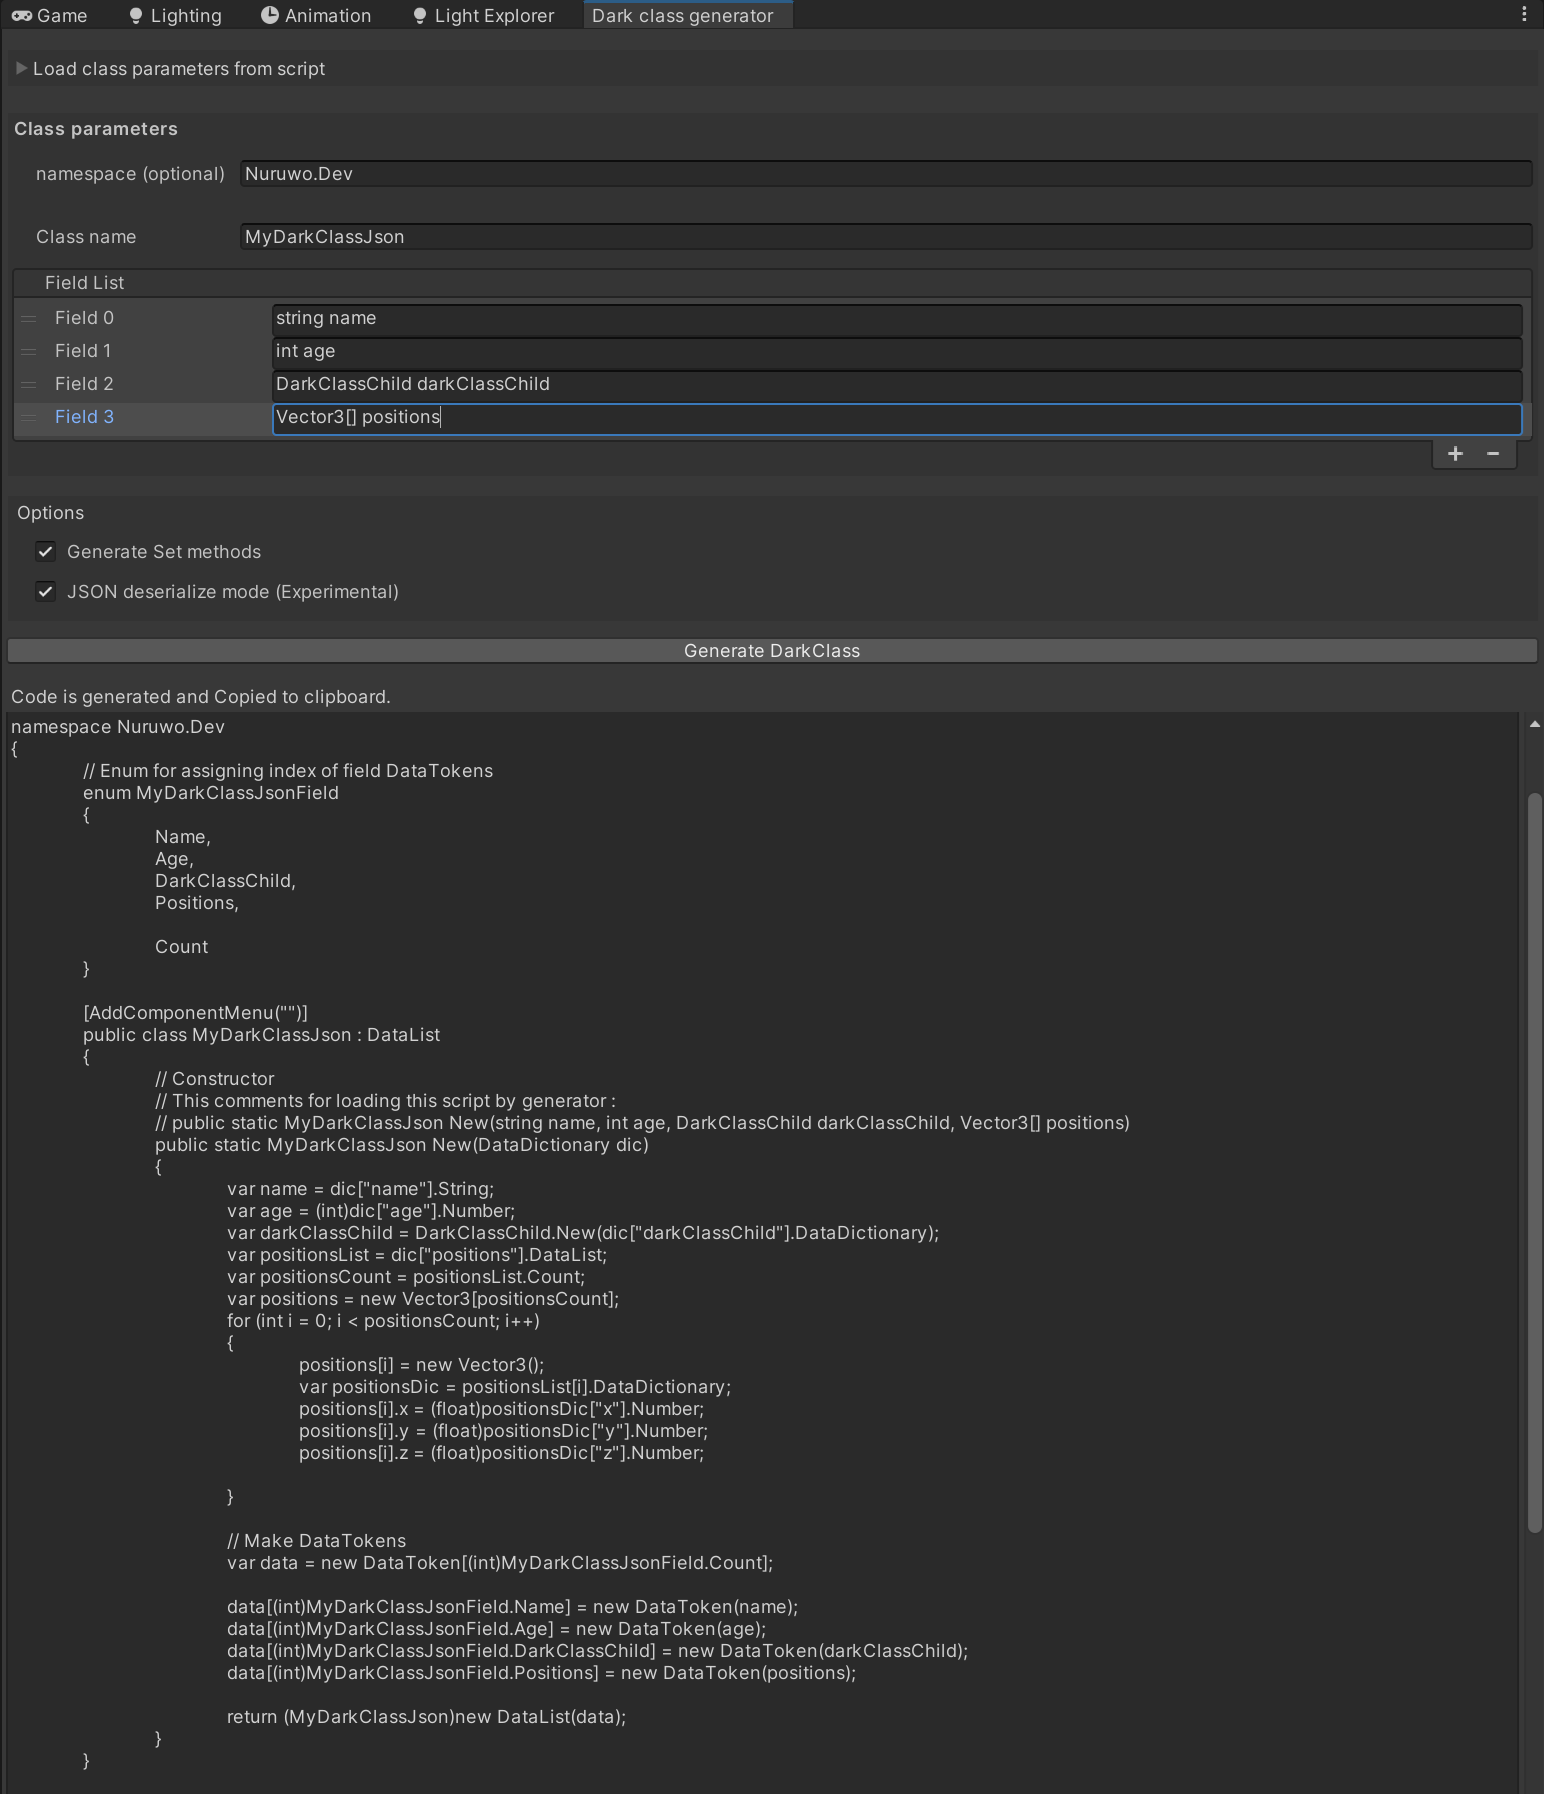
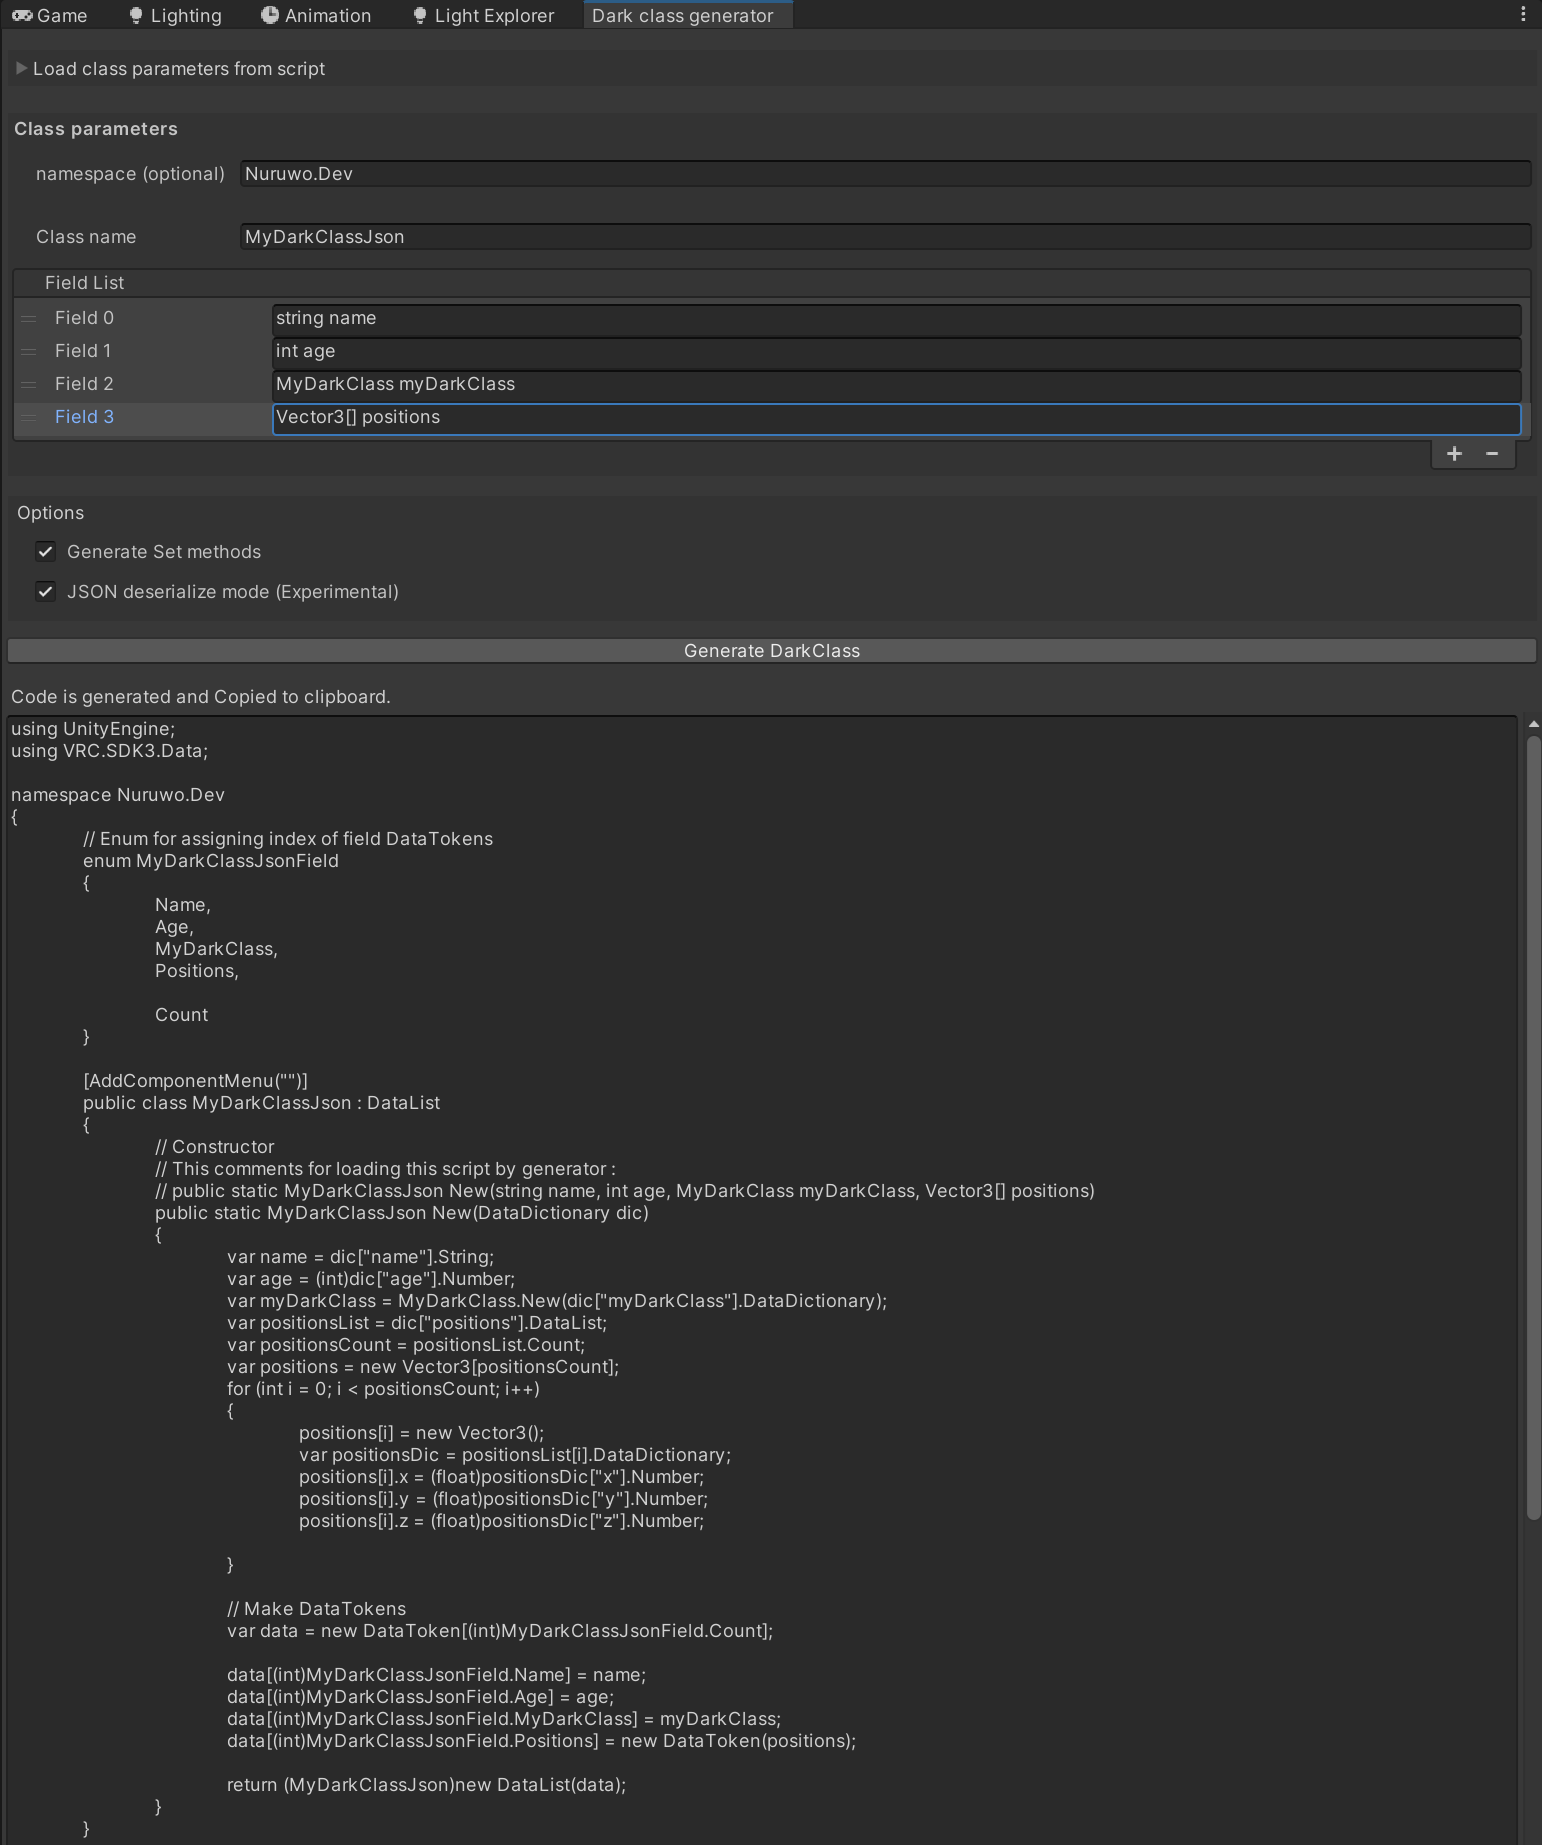
Use implicit casts

diff --git a/Editor/DarkClassGeneratorEditorWindow.cs b/Editor/DarkClassGeneratorEditorWindow.cs
@@ -220,7 +220,7 @@ namespace Nuruwo.Tool
             sb.Append($"// public static {pClassName} New(");
             foreach (var field in fieldList)
             {
-                var (argumentType, argumentName, _) = getTypeAndNamesFromField(field);
+                var (argumentType, argumentName, _) = GetTypeAndNamesFromField(field);
                 if (string.IsNullOrEmpty(argumentType)) { continue; }
                 sb.Append($"{argumentType} {argumentName}, ");
             }
@@ -254,7 +254,6 @@ namespace Nuruwo.Tool
         private string GenerateHeaderWithNameSpace(string nameSpace)
         {
             var sb = new StringBuilder();
-            sb.AppendLine($"using UdonSharp;");
             sb.AppendLine($"using UnityEngine;");
             sb.AppendLine($"using VRC.SDK3.Data;");
             sb.AppendLine("");
@@ -273,7 +272,7 @@ namespace Nuruwo.Tool
             sb.AppendLine($"{{");
             foreach (var field in _fieldList)
             {
-                var (argumentType, _, pArgumentName) = getTypeAndNamesFromField(field);
+                var (argumentType, _, pArgumentName) = GetTypeAndNamesFromField(field);
                 if (string.IsNullOrEmpty(argumentType)) { continue; }
                 sb.AppendLine($"\t{pArgumentName},");
             }
@@ -299,7 +298,7 @@ namespace Nuruwo.Tool
             sb.Append($"public static {pClassName} New(");
             foreach (var field in fieldList)
             {
-                var (argumentType, argumentName, _) = getTypeAndNamesFromField(field);
+                var (argumentType, argumentName, _) = GetTypeAndNamesFromField(field);
                 if (string.IsNullOrEmpty(argumentType)) { continue; }
                 sb.Append($"{argumentType} {argumentName}, ");
             }
@@ -325,74 +324,16 @@ namespace Nuruwo.Tool
             var sb = new StringBuilder();
             foreach (var field in fieldList)
             {
-                var (argumentType, _, pArgumentName) = getTypeAndNamesFromField(field);
+                var (argumentType, _, pArgumentName) = GetTypeAndNamesFromField(field);
                 if (string.IsNullOrEmpty(argumentType)) { continue; }
 
-                var (dataTokenType, isCastRequired) = GetDataTokenTypeAndCastRequired(argumentType);
-                var cast = isCastRequired ? $"({argumentType})" : "";
+                var typeIsReference = CheckDataTokenTypeIsReference(argumentType);
+                var dataTokenType = typeIsReference ? $".Reference" : $"";
 
                 sb.AppendLine($"public static {argumentType} {pArgumentName}(this {pClassName} instance)");
-                sb.AppendLine($"\t=> {cast}instance[(int){enumName}.{pArgumentName}].{dataTokenType};");
+                sb.AppendLine($"\t=> ({argumentType})instance[(int){enumName}.{pArgumentName}]{dataTokenType};");
             }
             return sb.ToString();
-        }
-
-        /// <summary>
-        /// get data token type and is cast required
-        /// </summary>
-        /// <param name="argumentType"></param>
-        /// <returns></returns>
-        private (string, bool) GetDataTokenTypeAndCastRequired(string argumentType)
-        {
-            if (Regex.IsMatch(argumentType, @"\[\s*\]"))
-            {
-                //array
-                return ("Reference", true);
-            }
-
-            //not array
-            switch (argumentType)
-            {
-                case "bool":
-                    return ("Boolean", false);
-                case "sbyte":
-                    return ("SByte", false);
-                case "byte":
-                    return ("Byte", false);
-                case "short":
-                    return ("Short", false);
-                case "ushort":
-                    return ("UShort", false);
-                case "int":
-                    return ("Int", false);
-                case "uint":
-                    return ("UInt", false);
-                case "long":
-                    return ("Long", false);
-                case "float":
-                    return ("Float", false);
-                case "double":
-                    return ("Double", false);
-                case "string":
-                    return ("String", false);
-                //enum
-                case "TrackingDataType":
-                case "HumanBodyBones":
-                case "TextureWrapMode":
-                case "GraphicsFormat":
-                case "TextureFormat":
-                //other
-                case "Vector2":
-                case "Vector3":
-                case "Vector4":
-                case "Quaternion":
-                case "Color":
-                case "Color32":
-                    return ("Reference", true);
-                default:
-                    //darkClass
-                    return ("DataList", true);
-            }
         }
 
         private string GenerateSetMethods(string pClassName, string enumName, List<string> fieldList)
@@ -400,11 +341,14 @@ namespace Nuruwo.Tool
             var sb = new StringBuilder();
             foreach (var field in fieldList)
             {
-                var (argumentType, _, pArgumentName) = getTypeAndNamesFromField(field);
+                var (argumentType, _, pArgumentName) = GetTypeAndNamesFromField(field);
                 if (string.IsNullOrEmpty(argumentType)) { continue; }
 
+                var typeIsReference = CheckDataTokenTypeIsReference(argumentType);
+                var arg = typeIsReference ? $"new DataToken(arg)" : $"arg";
+
                 sb.AppendLine($"public static void {pArgumentName}(this {pClassName} instance, {argumentType} arg)");
-                sb.AppendLine($"\t=> instance[(int){enumName}.{pArgumentName}] = new DataToken(arg);");
+                sb.AppendLine($"\t=> instance[(int){enumName}.{pArgumentName}] = {arg};");
             }
             return sb.ToString();
         }
@@ -420,7 +364,7 @@ namespace Nuruwo.Tool
             return sb.ToString();
         }
 
-        private (string, string, string) getTypeAndNamesFromField(string field)
+        private (string, string, string) GetTypeAndNamesFromField(string field)
         {
             var args = Regex.Split(field.Trim(), @"\s+");
             if (args.Length != 2) { return (string.Empty, string.Empty, string.Empty); }
@@ -428,6 +372,32 @@ namespace Nuruwo.Tool
             var argumentName = args[1].Trim();
             var pArgumentName = ToPascal(argumentName);
             return (argumentType, argumentName, pArgumentName);
+        }
+
+        private bool CheckDataTokenTypeIsReference(string argumentType)
+        {
+            if (Regex.IsMatch(argumentType, @"\[\s*\]"))
+            {
+                //array is reference
+                return true;
+            }
+
+            //You can add more types
+            var referenceCastTypes = new string[]{
+                "TrackingDataType",
+                "HumanBodyBones",
+                "TextureWrapMode",
+                "GraphicsFormat",
+                "TextureFormat",
+                "Vector2",
+                "Vector3",
+                "Vector4",
+                "Quaternion",
+                "Color",
+                "Color32",
+            };
+
+            return Array.IndexOf(referenceCastTypes, argumentType) != -1;   //if type is find in array. return true;
         }
 
         /*------------------------------Generate JSON Part Code-----------------------------*/
@@ -451,7 +421,7 @@ namespace Nuruwo.Tool
 
         private string JsonFieldDeclaration(string field)
         {
-            var (argumentType, argumentName, _) = getTypeAndNamesFromField(field);
+            var (argumentType, argumentName, _) = GetTypeAndNamesFromField(field);
             if (string.IsNullOrEmpty(argumentType)) { return string.Empty; }
 
             //type of arrays (List is not supported)
@@ -627,10 +597,13 @@ namespace Nuruwo.Tool
             var dataBase = $"\tdata[(int)";
             foreach (var field in fieldList)
             {
-                var (argumentType, argumentName, pArgumentName) = getTypeAndNamesFromField(field);
+                var (argumentType, argumentName, pArgumentName) = GetTypeAndNamesFromField(field);
                 if (string.IsNullOrEmpty(argumentType)) { continue; }
 
-                sb.AppendLine($"{dataBase}{enumName}.{pArgumentName}] = new DataToken({argumentName});");
+                var typeIsReference = CheckDataTokenTypeIsReference(argumentType);
+                var arg = typeIsReference ? $"new DataToken({argumentName})" : $"{argumentName}";
+
+                sb.AppendLine($"{dataBase}{enumName}.{pArgumentName}] = {arg};");
             }
 
             sb.AppendLine();
